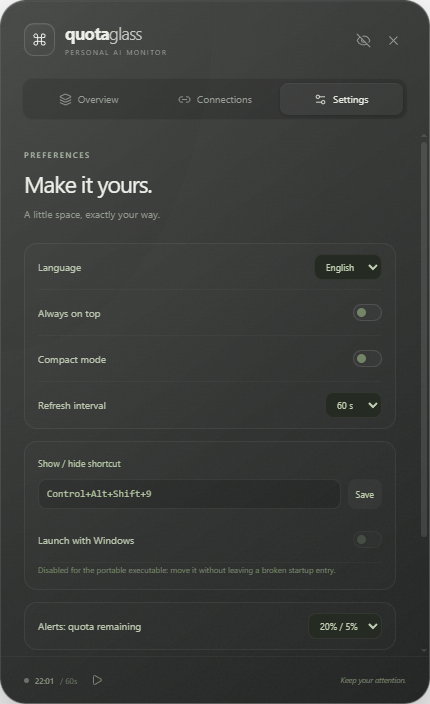
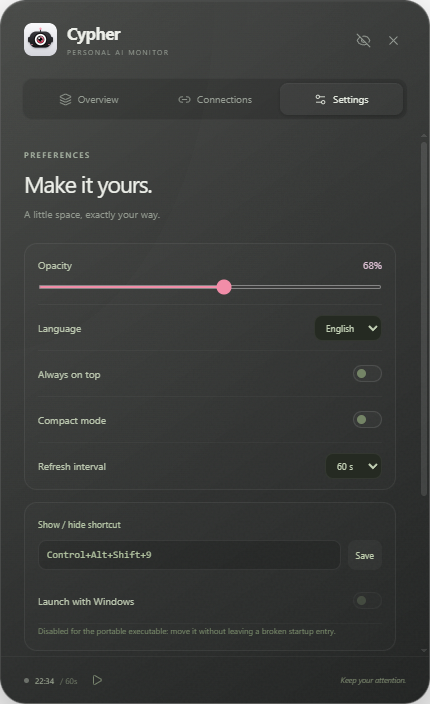
docs: record Cypher packaged appearance and background process checks

diff --git a/README.md b/README.md
@@ -1,12 +1,18 @@
-# Quota Glass
+# Cypher
 
 Widget Windows autonome FR / EN pour découvrir les outils IA locaux et lire les quotas réellement accessibles. Verre fumé sombre, fenêtre déplaçable, icône de notification, raccourci clavier et stockage local. Aucun compte payant n'est déduit de la simple installation.
 
 ## Lancer
 
-Double-cliquer `release/Quota-Glass-0.1.0-win-x64.exe`. Aucun droit administrateur nécessaire. Le lancement portable extrait temporairement Electron ; patienter au premier démarrage. Application non signée : Windows peut afficher un avertissement. L'application ne télécharge pas de modèles et n'envoie aucun message IA.
+Double-cliquer `release/Cypher-0.2.0-win-x64.exe`. Aucun droit administrateur nécessaire. Le lancement portable extrait temporairement Electron ; patienter au premier démarrage. Application non signée : Windows peut afficher un avertissement. L'application ne télécharge pas de modèles et n'envoie aucun message IA.
 
 L'icône près de l'horloge (parfois dans les icônes masquées) affiche/masque le widget au clic. Ctrl+Alt+Q fait de même. Le bouton œil barré masque ; la croix visible « Quitter » arrête le processus et la collecte. Une fermeture native de la fenêtre masque également le widget. Masquer conserve la collecte ; Pause la suspend. La position est conservée. Le mode compact réduit les cartes. La fenêtre peut rester au premier plan. Quitter l'ancienne version avant de remplacer son exécutable portable.
+
+## Apparence et rafraîchissement discret
+
+Réglages > Opacité ajuste immédiatement la fenêtre de 30 à 100 % et conserve la préférence. Le logo SVG fourni est utilisé dans l'interface et converti en icône Windows multi-résolution sans modifier le dessin. Les lectures de quota ne lancent pas de terminal : Codex utilise directement son binaire natif lorsque disponible ; les workers Node restants imposent windowsHide aux sous-processus. Seul un clic de connexion ouvre un terminal visible.
+
+Le renommage garde le dossier historique %APPDATA%/Quota Glass s'il existe, sans déplacer les profils ni copier leurs identifiants ; une nouvelle installation utilise %APPDATA%/Cypher. CYPHER_DATA_DIR ou l'ancien QG_DATA_DIR permettent un dossier isolé explicite.
 
 ## Connecter les données
 
@@ -40,7 +46,7 @@ Node 24 utilisé lors de la construction. Dans le dossier du projet :
     npm run test:ui
     npm run dist
 
-Le test navigateur utilise Microsoft Edge installé. `node scripts/smoke.cjs` exerce l'application Electron ; ajouter le chemin de `release/win-unpacked/Quota Glass.exe` pour la version empaquetée. `node scripts/test-native-login.cjs` teste le bouton, le terminal, l'isolation et les permissions avec un faux CLI explicitement synthétique ; aucun compte réel n'est connecté. Les répertoires de test sont isolés dans le scratch Hermes. Les réponses synthétiques n'existent que dans les tests. `QG_DATA_DIR` permet de choisir un dossier de préférences séparé (ne pas pointer vers une configuration d'un autre produit).
+Le test navigateur utilise Microsoft Edge installé. `node scripts/smoke.cjs` exerce l'application Electron ; ajouter le chemin de `release/win-unpacked/Cypher.exe` pour la version empaquetée. `node scripts/test-native-login.cjs` teste le bouton, le terminal, l'isolation et les permissions avec un faux CLI explicitement synthétique ; aucun compte réel n'est connecté. Les répertoires de test sont isolés dans le scratch Hermes. Les réponses synthétiques n'existent que dans les tests. `QG_DATA_DIR` permet de choisir un dossier de préférences séparé (ne pas pointer vers une configuration d'un autre produit).
 
 ## English quick start
 

diff --git a/VERIFICATION.md b/VERIFICATION.md
@@ -1,5 +1,20 @@
 # Vérification réelle — 2026-10-23
 
+## Cypher 0.2.0 — nom, logo, opacité et workers discrets
+
+- 44 tests unitaires/subprocess, 2 UI Edge et typecheck réussis ; audit npm zéro vulnérabilité signalée.
+- SVG original D:/Projets/icon.svg conservé octet pour octet (comparaison SHA256 réussie), PNG et ICO multi-résolution générés ; nom et logo Cypher inspectés dans une capture réelle.
+- Opacité native : preview 55 % sans sauvegarde, sauvegarde 68 %, refus de 0 % invisible et persistance contrôlés via le véritable BrowserWindow empaqueté. Slider UI clavier testé, FR/EN conservés.
+- Codex npm lance un enfant natif sans windowsHide : source installée vérifiée. Le produit résout maintenant directement ce binaire natif, et précharge un garde seulement pour les CLI Node de lecture restants.
+- Test du véritable ChildProcess natif d'un petit-enfant CLI synthétique : contrôle windowsHide=false ; worker corrigé windowsHide=true, environnement et options conservés. Aucun faux résultat de quota utilisé comme donnée utilisateur. Cela vérifie les options Windows effectives, pas une observation exhaustive de tous les CLI tiers.
+- Login explicite séparé : terminal Windows via start /wait ; tous les chemins passent par l'environnement Unicode natif et le batch reste ASCII. Test natif réussi avec profil-équipe-日本 & 50%! et espace neutre Unicode. Aucun vrai login.
+- Ancienne revue I1 Unicode corrigée par ce transport (la tentative chcp ne fonctionnait pas avec le starter sans console). I2 corrigé par RescanQueue et demande fresh après mutations de registre, régression de collecte en vol couverte. Action de remplacement CLI accessible après détection (ancien mineur M1).
+- Smoke Cypher empaqueté : 13 contrôles réussis, rapport C:/Users/Administrator/AppData/Local/hermes/cache/scratch/quota-glass-smoke-1792787656189/report.json. Login IPC complet synthétique empaqueté également réussi, répertoire qg-native-login-fixture-Tc9mG7.
+- Exécutable release/Cypher-0.2.0-win-x64.exe : 102433204 octets ; SHA256 acd097c006d409deb7f5278aac5a26c88121b69b963ec5c96df9b09957cf7d42. Non signé.
+- Les préférences et profils historiques restent sur place ; helper de sélection de dossier testé. Aucun quota serveur réel ni session humaine vérifié par automatisation. Claude/Gemini gardent les limites documentées.
+- Revue ciblée finale Cypher en cours ; rapport attendu dans le scratch cypher-final-review.md avant clôture.
+
+
 ## Mise à jour multi-profils et login terminal
 
 - 38 tests unitaires/subprocess réussis ; typecheck réussi ; 2 parcours UI Edge réussis ; audit npm zéro vulnérabilité signalée.

diff --git a/docs/superpowers/specs/2026-10-23-cypher-appearance-design.md b/docs/superpowers/specs/2026-10-23-cypher-appearance-design.md
@@ -6,6 +6,6 @@ Conserver le répertoire de données historique Quota Glass lorsqu'il existe, sa
 
 Diagnostic confirmé : le launcher npm Codex lance lui-même un binaire natif avec spawn sans windowsHide. Le windowsHide du parent ne couvre pas cette frontière. Résoudre directement le binaire natif distribué lorsque possible ; pour les CLI Node restant nécessaires, précharger un garde limité aux workers de lecture pour forcer windowsHide sur les sous-processus Node. Ne pas appliquer ce garde aux terminaux de login.
 
-Intégrer aussi les deux problèmes importants de la revue multi-profils : décodage Unicode des batchs via page de codes UTF-8 avant toute ligne non ASCII ; réscan obligatoirement postérieur à une mutation de registre, même si une collecte précédente est encore en cours. Garder une action de remplacement de CLI accessible même lorsqu'un ancien launcher est détecté.
+Intégrer aussi les deux problèmes importants de la revue multi-profils : transport des chemins Unicode par environnement UTF-16 natif, le batch restant ASCII et démarrant par un nom de fichier ASCII dans son propre dossier ; réscan obligatoirement postérieur à une mutation de registre, même si une collecte précédente est encore en cours. Garder une action de remplacement de CLI accessible même lorsqu'un ancien launcher est détecté.
 
 Vérifications : régressions unitaires RED→GREEN, test natif Unicode et ponctuation, observation des véritables options de création Windows du petit-enfant CLI sur un contrôle non corrigé puis corrigé, test complet de login avec CLI synthétique, IPC et persistance d'opacité, captures réelles de l'interface et construction/test du portable. Aucun vrai compte connecté par les tests ; limites fournisseur conservées.
